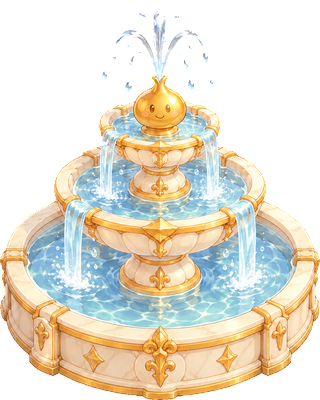
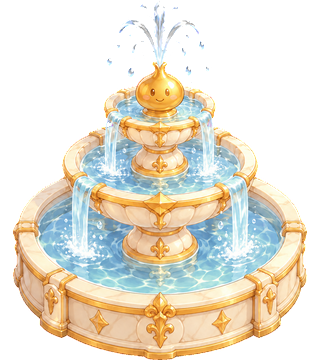
王城廣場：物件照生成地面的草坪、步道、圓環重排（原本照設計檔擺，地面沒對上，看起來亂放）

diff --git a/README.md b/README.md
@@ -69,7 +69,7 @@
 
 ## 王城中央廣場（連線）
 
-成年禮之後從育嬰室門口去，`art/objects_plaza.yaml` 設計、`python3 scripts/map_art.py gen|cut --map=plaza` 產圖（沒有舊整張圖：家具帶育嬰室整張當畫風、競技場背景當王國風格；地面照設計檔色塊配置圖生成，配置圖要先拉成生圖的 3:2，不然模型會自己重新排版）。多人連線只開在廣場：`rpg-settings` 的 `online.soloMaps` 放育嬰室，對戰先關（寵物還沒有數值）。
+成年禮之後從育嬰室門口去，`art/objects_plaza.yaml` 設計、`python3 scripts/map_art.py gen|cut --map=plaza` 產圖（沒有舊整張圖：家具帶育嬰室整張當畫風、競技場背景當王國風格；地面照設計檔色塊配置圖生成，配置圖要先拉成生圖的 3:2，不然模型會自己重新排版）。**地面生成後要先跟設計檔疊圖比對**（草坪、步道、圓環的實際位置），物件照地面的實際位置對稱重排再切圖；先照設計檔擺、地面又沒照設計長，物件會像亂放（2026-10-09 作者指正）。合成預覽 `art/check/plaza-composed.jpg`。多人連線只開在廣場：`rpg-settings` 的 `online.soloMaps` 放育嬰室，對戰先關（寵物還沒有數值）。
 
 ## 作品聯動：禮物箱與穿衣鏡
 
